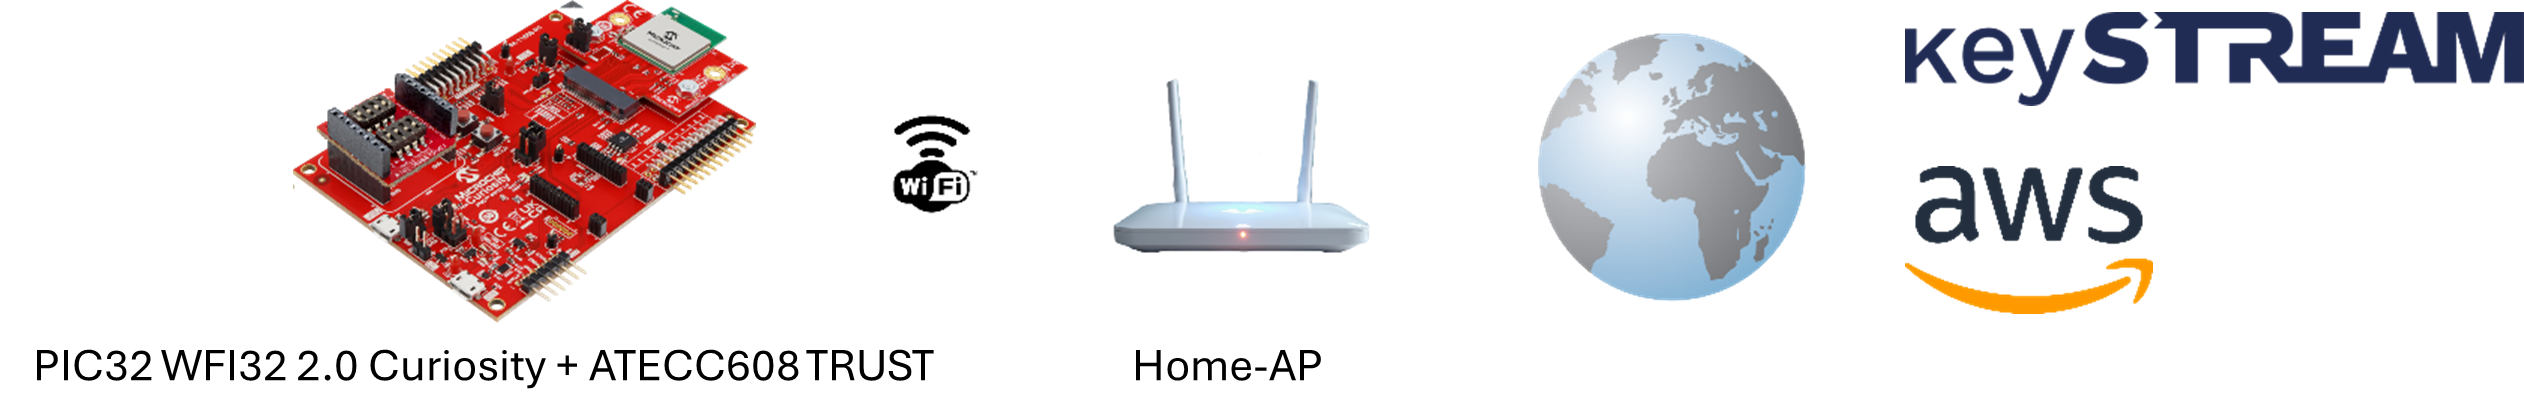
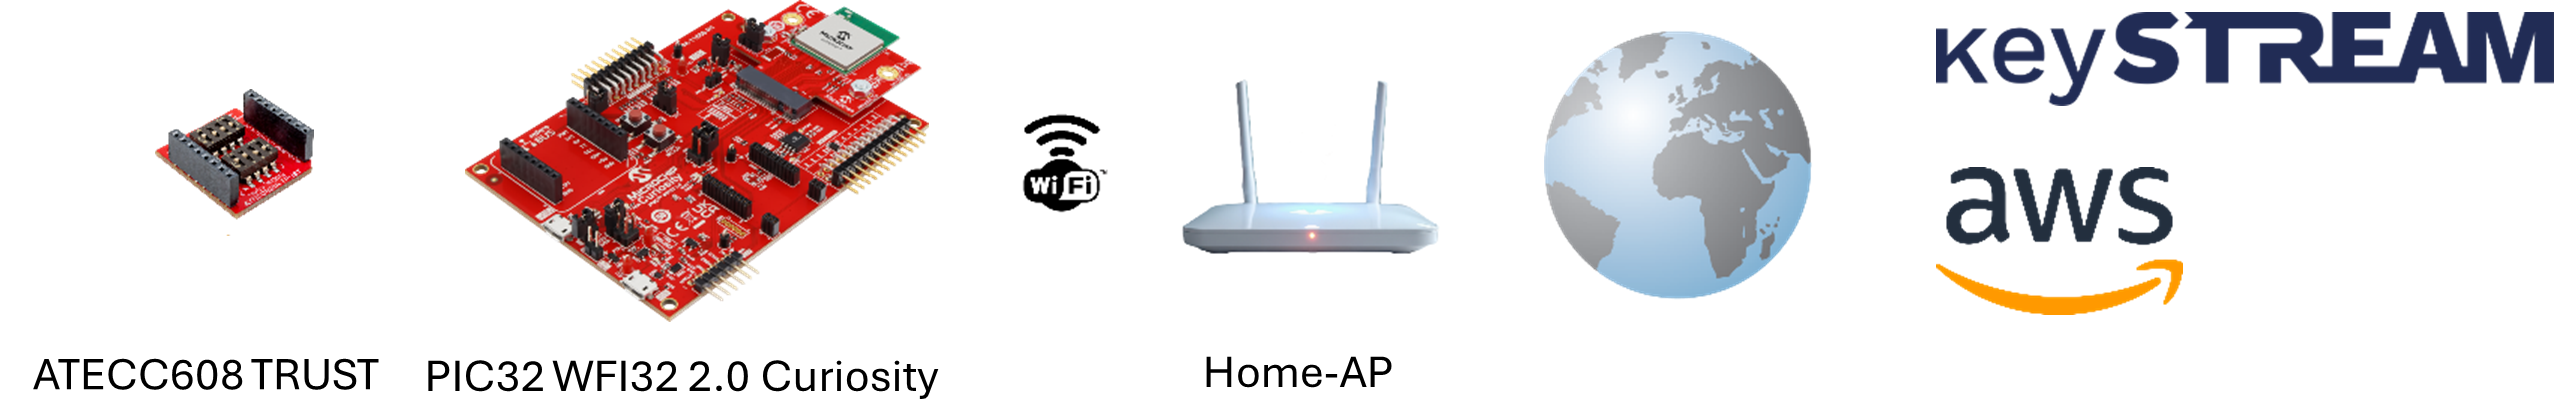
added links to documentation added new image

diff --git a/README.md b/README.md
@@ -43,7 +43,6 @@ Checkout the <a href="https://microchipsupport.force.com/s/" target="_blank">Tec
 This application demonstrates the usage of the WFI32E03 in a Public Key Infrastructure (PKI) based environemnt to ensure secure communication and data protection to Amazon Web Services (AWS). This is achieved by means of Microchip's TrustMANAGER and Kudelski's keySTREAM Trusted Agent (KTA).<br>
 
 <img src="images/Environment.png" width=700 style="display: block; margin: auto; float: center"><br>
-<img src="images/Environment1.png" width=700 style="display: block; margin: auto; float: center"><br>
 
 The FreeRTOS&trade; based application will host a TCP client in Wi-Fi STA mode connecting to the Home-AP. To ensure proper Wi-Fi connectivity provide the necessary details, see [here](#firmware).<br> By default, every time the IoT device is powered-up, a TCP client socket connection to Kudelski server will be established either to initially set-up, to confirm or to renew its credentials. Only if the so called in-field provisioning process has been finished successfully, the device is able to establish a secure connection to any cloud-computing provider deploying PKI e.g., Amazon Web Services.<br>
 Subsequent to the provisioning step, the device generates the signer and device certificates and opens a TLS-based TCP client socket to AWS. The required public and private keys used during the protocol handshaking procedure are generated by means of information stored in the TrustMANAGER CryptoAuthentication&trade; secure element.<br>
@@ -73,10 +72,12 @@ In case a successful connection to the MQTT broker has been establisch, the appl
 
 ## Prerequisites
 
-- Create AWS account
-- Create Kudelski IoT keySTREAM account
-- Before utilizing the target hardware platform the ECC608-TMNGTLS CryptoAuthentication&trade; security element (<i>TrustMANAGER</i>) needs to be registered at Kudelski IoT keySTREAM initially. Follow the instructions as described in setting up the [ATECC608 TRUST](#atecc608-trust-board) and [CryptoAuth TrustMANAGER](#cryptoauth-trustmanager-board) board. <br>Open the Microchip Trust Platform Design Suite (TPDS) and select <i>Usecases</i>.<br><br>
-<img src="images/Tpds.png" width=400 style="display: block; margin: auto; float: center"><br> Now select <i>"CryptoAuth Trust Platform - TMNG"</i> in the <i>Kit</i> drop-down box and <i>"keySTREAM&trade; In-field Provisioning"</i> as the <i>Usecase</i>.<br>In the next dialog click the first <i>Pre-Config instruction</i> to generate the Manifest file for the ATECC608 secure element. The second step requires device related information from Kudelski IoT keySTREAM and AWS. Use the <i>Usecase Help</i> button and follow the guidance to create and gather the necessary data.<br>
+- Create and sign in to [AWS](https://portal.aws.amazon.com/gp/aws/developer/registration/index.html?nc2=h_ct&src=header_signup) account
+- Create and sign in to Kudelski IoT [keySTREAM](https://www.kudelski-iot.com/services-and-systems/microchip) account
+- [Download](https://www.microchip.com/en-us/products/security/trust-platform/tpds) and install Microchip Trust Platform Design Suite (TPDS)
+- Before utilizing the target hardware platform the ECC608-TMNGTLS CryptoAuthentication&trade; security element (<i>TrustMANAGER</i>) needs to be registered at Kudelski IoT keySTREAM initially. Follow the instructions as described in setting up the [ATECC608 TRUST](#atecc608-trust-board) and [CryptoAuth TrustMANAGER](#cryptoauth-trustmanager-board) board. <br>Open the Microchip Trust Platform Design Suite and select <i>Usecases</i>.<br><br>
+<img src="images/Tpds.png" width=400 style="display: block; margin: auto; float: center"><br> Now select <i>"CryptoAuth Trust Platform - TMNG"</i> in the <i>Kit</i> drop-down box and <i>"keySTREAM&trade; In-field Provisioning"</i> as the <i>Usecase</i>.<br><br>
+<img src="images/Usecases.png" width=400 style="display: block; margin: auto; float: center"><br>In the next dialog click the first <i>Pre-Config instruction</i> to generate the Manifest file for the ATECC608 secure element. The second step requires device related information from Kudelski IoT keySTREAM and AWS. Use the <i>Usecase Help</i> button and follow the guidance to create and gather the necessary data.<br>
 <img src="images/UsecaseHelp.png" width=500 style="display: block; margin: auto; float: center"><br> Finish the remaining steps 3 to 6. On success, close TPDS and open the MPLAB X project separately.<br> Now follow the instructions as described in setting up the [PIC32 WFI32 2.0 Curiosity board](#pic32-wfi32-20-curiosity-board).
 
 [TOP](#contents)
@@ -84,7 +85,8 @@ In case a successful connection to the MQTT broker has been establisch, the appl
 ## Hardware Setup
 #### <u>PIC32 WFI32 2.0 Curiosity Board</u>
 
-  - Connect the ATECC608 TRUST and PIC32 WFI32 2.0 Curiosity board via mikroBUS&trade; header (J200)
+  - Connect the ATECC608 TRUST and PIC32 WFI32 2.0 Curiosity board via mikroBUS&trade; header (J200)<br>
+<img src="images/Pic32Wfi32.png" width=160 style="display: block; margin: auto; float: center">
   - For normal operations set the Power Source Selection Jumper (J202) to V<sub>BUS</sub>-VIN (5-6), if the demo software has been already programmed to the device
   - Connect the Target VBUS Micro-B Connector (J204) on the board to the computer using a micro USB cable
   - On the GPIO Header (J207), connect U1RX (PIN 13) and U1TX (PIN 23) to TX and RX pin of any USB to UART converter. When using FTDI chips, connect GND (PIN 17) additionally.
@@ -185,4 +187,7 @@ The application prints the following information to the connected terminal.<br>
 
 ## Links
 
+download Microchip [Trusted Platform Design Suite (TPDS)](https://www.microchip.com/en-us/products/security/trust-platform/tpds)<br>
+[Amazon Web Services (AWS)](https://console.aws.amazon.com/console/home?nc2=h_ct&src=header-signin) login<br>
+Kudelski IoT [keySTREAM](https://www.kudelski-iot.com/services-and-systems/microchip) open account<br><br>
 [TOP](#contents)
